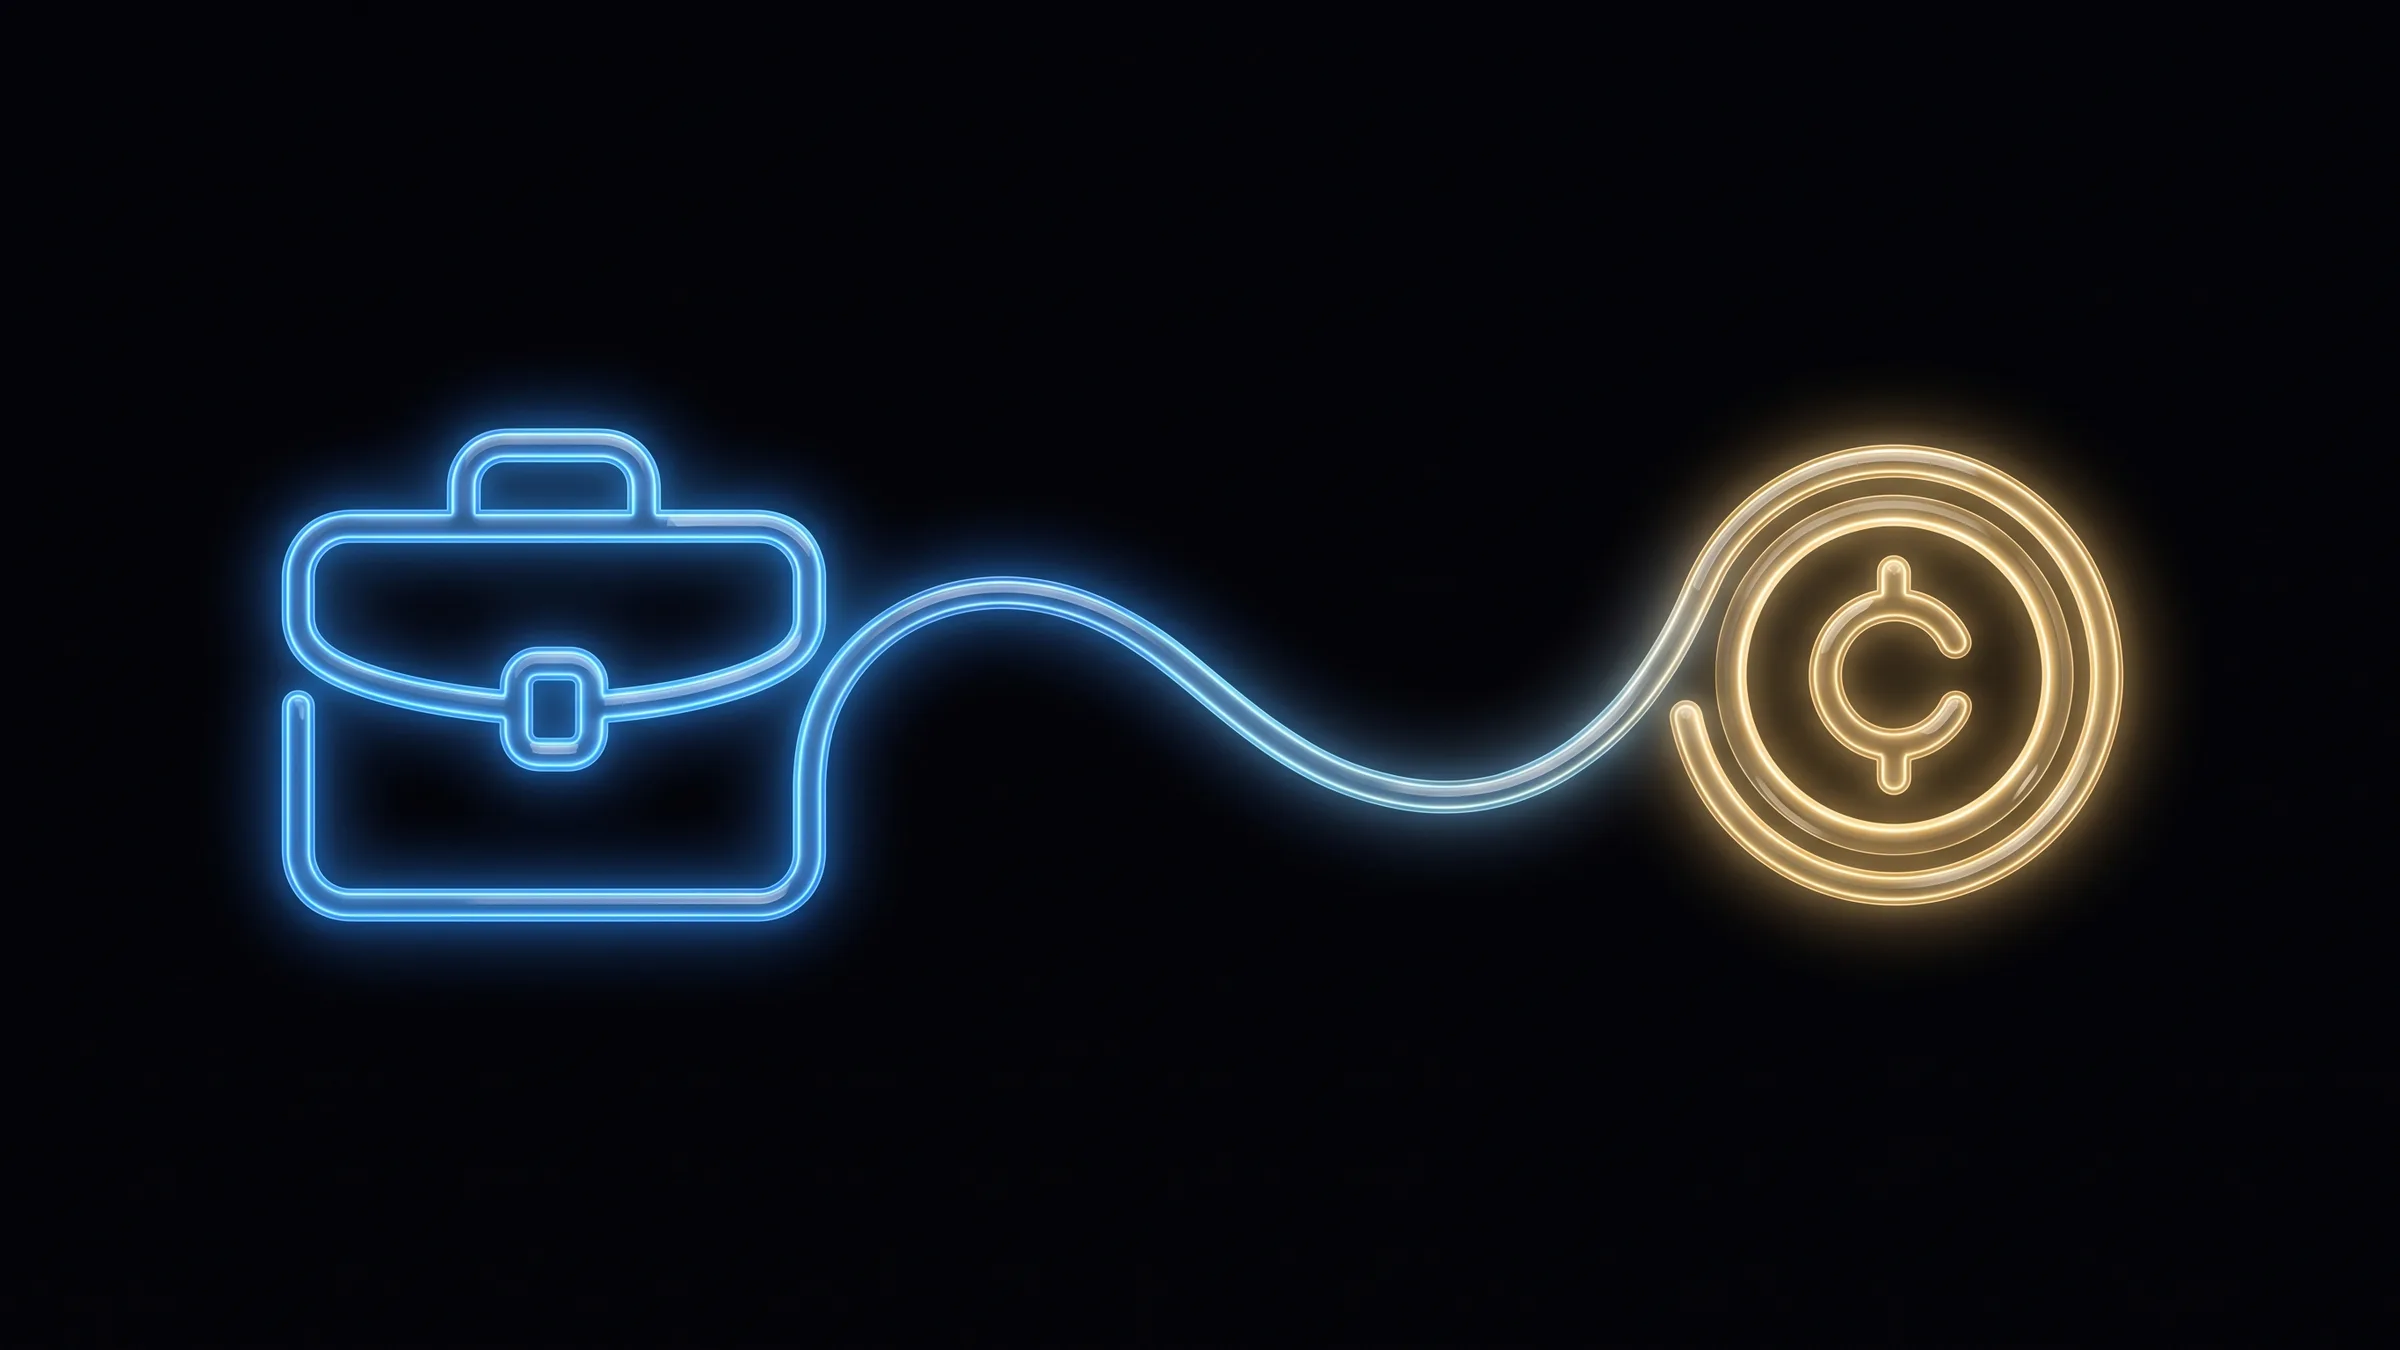
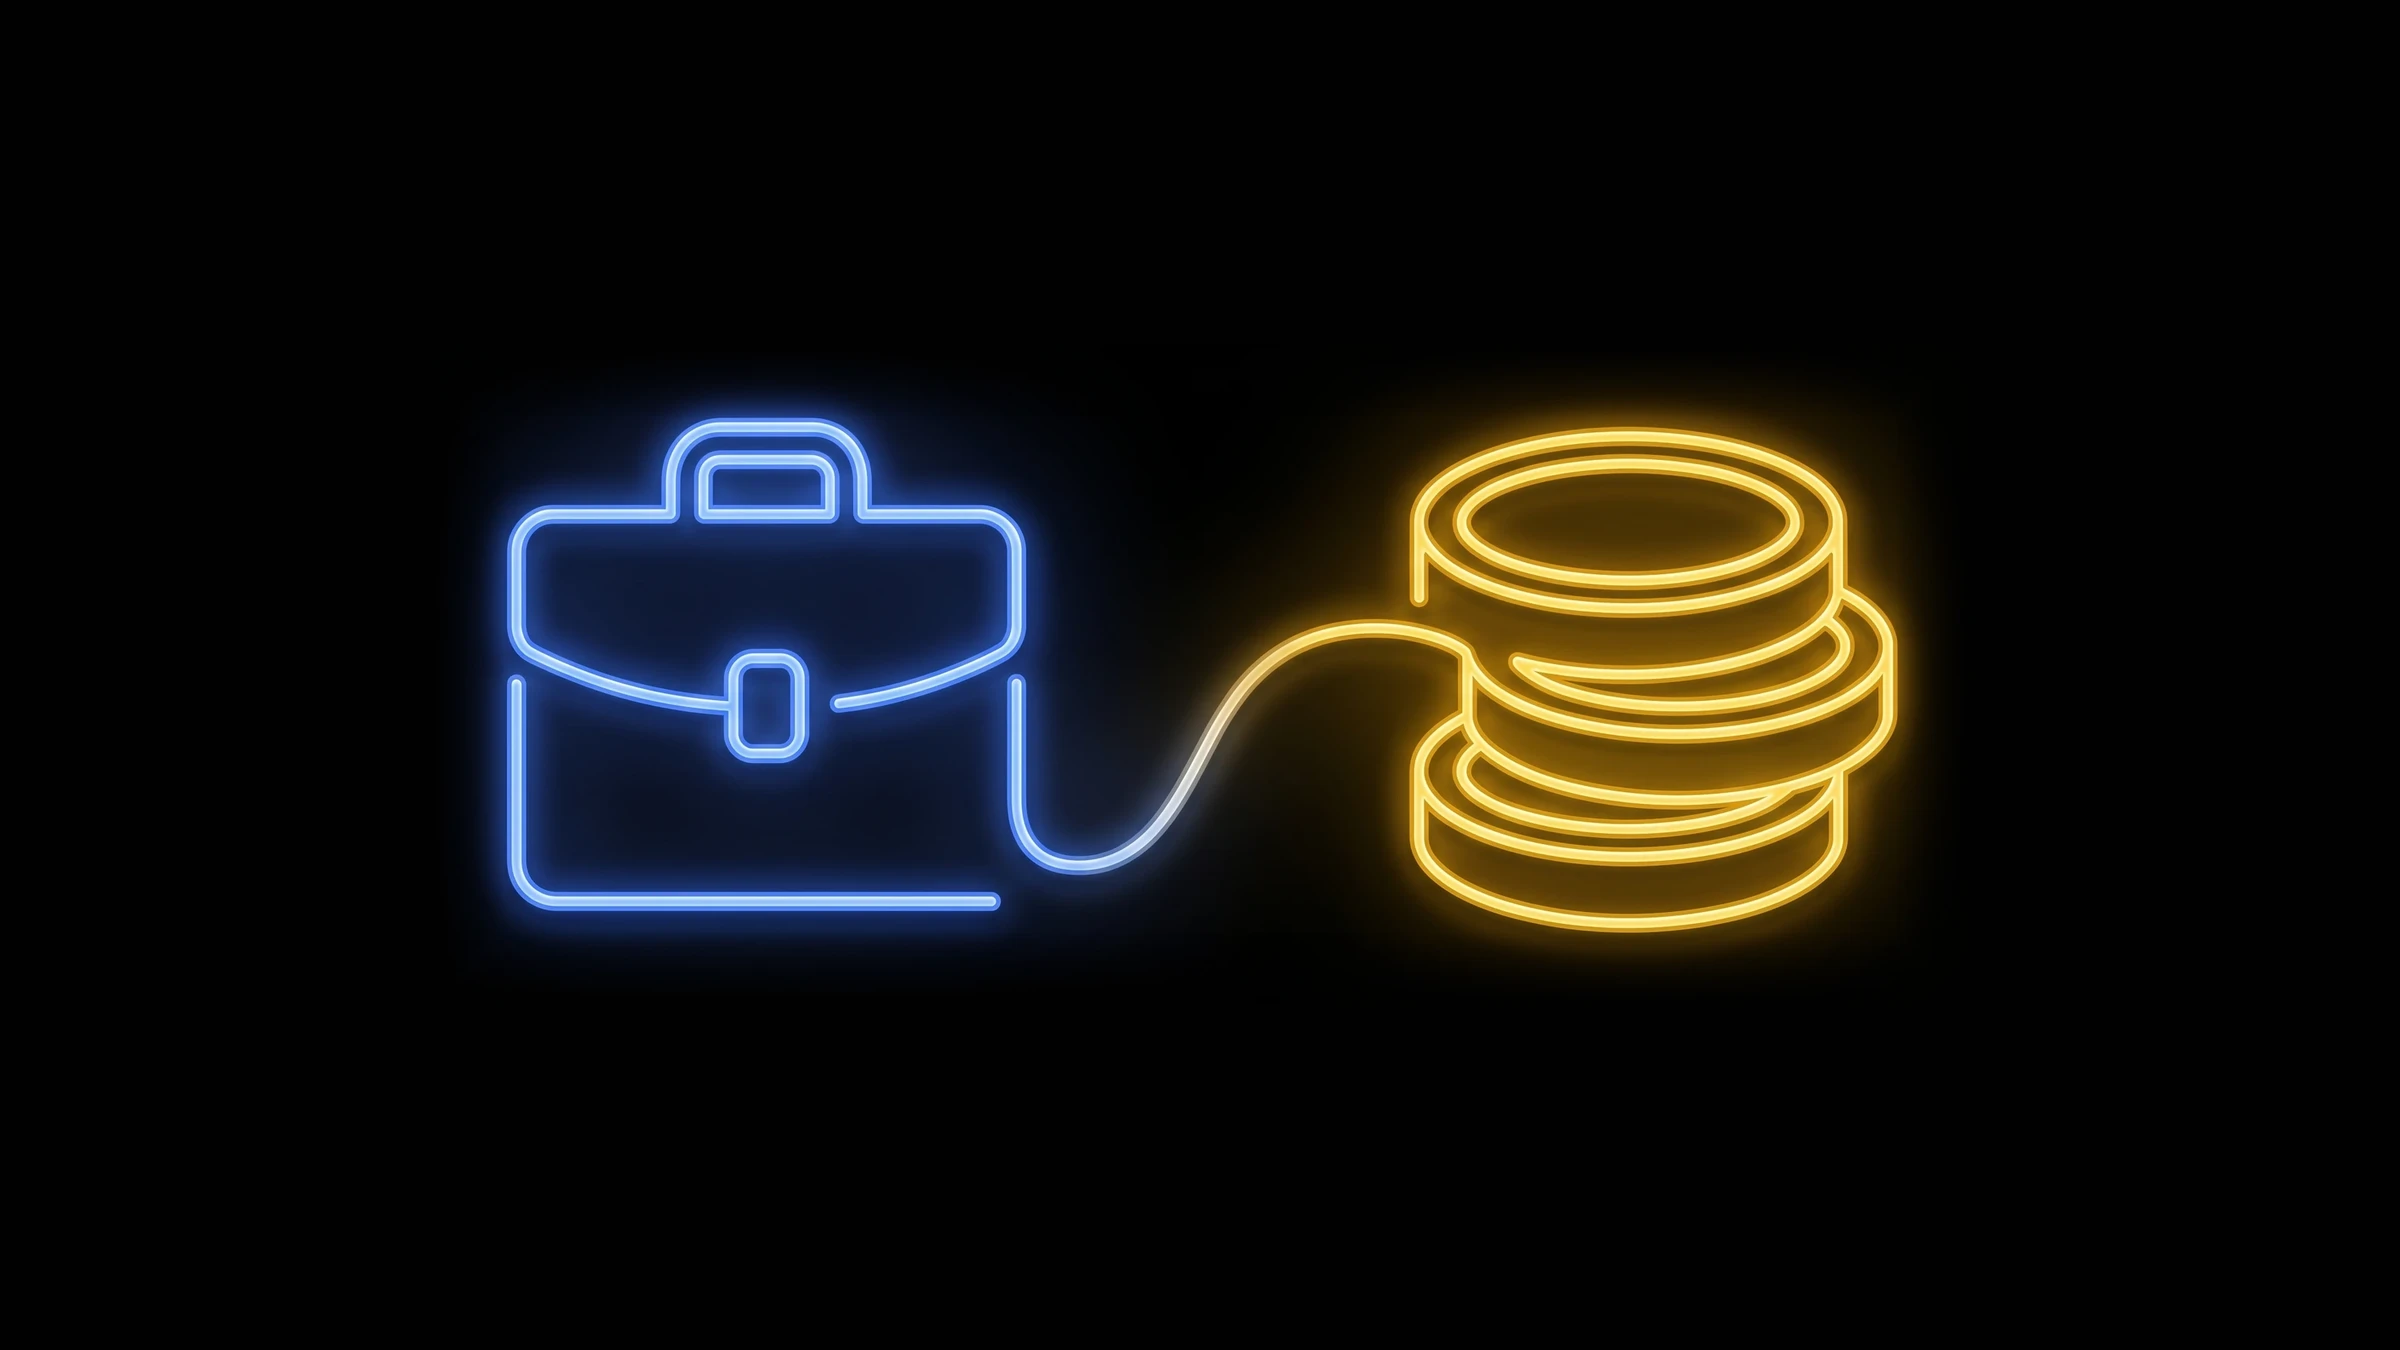
Regenerate AI Overviews and salary heroes on-brand; add normalise-hero CLI as mandatory hero step
Claude-Session: https://claude.ai/code/session_01BZYhQ3svCnfwLo1fazZx6B

Changed region(s): [[0.0938, 0.28, 0.9062, 0.7467]]

diff --git a/scripts/normalise-hero.js b/scripts/normalise-hero.js
@@ -1,0 +1,115 @@
+// Mandatory step for every new blog/service hero: normalise its subject size before use.
+const fs = require('fs');
+const path = require('path');
+const { randomUUID } = require('crypto');
+const sharp = require('sharp');
+
+function subjectBounds(data, width, height, channels) {
+  let left = width;
+  let top = height;
+  let right = -1;
+  let bottom = -1;
+  for (let y = 0; y < height; y++) {
+    for (let x = 0; x < width; x++) {
+      const i = (y * width + x) * channels;
+      if (Math.max(data[i], data[i + 1], data[i + 2]) > 40) {
+        if (x < left) left = x;
+        if (x > right) right = x;
+        if (y < top) top = y;
+        if (y > bottom) bottom = y;
+      }
+    }
+  }
+  if (right < left || bottom < top) return null;
+  return { left, top, width: right - left + 1, height: bottom - top + 1 };
+}
+
+function pct(value, total) {
+  return `${(value / total * 100).toFixed(1)}%`;
+}
+
+function median(values) {
+  values.sort((a, b) => a - b);
+  const middle = Math.floor(values.length / 2);
+  return values.length % 2 ? values[middle] : Math.round((values[middle - 1] + values[middle]) / 2);
+}
+
+function borderMedian(data, width, height, channels) {
+  const strip = Math.max(1, Math.ceil(Math.min(width, height) * 0.02));
+  const samples = [[], [], []];
+  for (let y = 0; y < height; y++) for (let x = 0; x < width; x++) {
+    if (x >= strip && x < width - strip && y >= strip && y < height - strip) continue;
+    const i = (y * width + x) * channels;
+    for (let c = 0; c < 3; c++) samples[c].push(data[i + c]);
+  }
+  return samples.map(median);
+}
+
+async function main() {
+  const args = process.argv.slice(2);
+  const check = args.includes('--check');
+  const files = args.filter((arg) => arg !== '--check');
+  if (args.filter((arg) => arg === '--check').length > 1 ||
+      files.some((arg) => arg.startsWith('--')) ||
+      files.length < 1 || files.length > (check ? 1 : 2)) {
+    throw new Error('Usage: node scripts/normalise-hero.js <input> [<output>] | --check <input>');
+  }
+  const inputPath = path.resolve(files[0]);
+  const outputPath = path.resolve(files[1] || files[0]);
+  const format = path.extname(inputPath).slice(1).toLowerCase();
+  if (!['webp', 'png'].includes(format)) throw new Error('Input must be .webp or .png.');
+  if (!check && path.extname(outputPath).slice(1).toLowerCase() !== format) {
+    throw new Error('Output extension must match the input format.');
+  }
+  const input = await fs.promises.readFile(inputPath);
+  const metadata = await sharp(input).metadata();
+  if (metadata.format !== format) throw new Error('Input extension must match its image format.');
+  const { data, info } = await sharp(input).toColourspace('srgb').removeAlpha().raw().toBuffer({ resolveWithObject: true });
+  const bounds = subjectBounds(data, info.width, info.height, info.channels);
+  if (!bounds) throw new Error(`No lit subject found in ${inputPath}`);
+  if (check) {
+    console.log(`Subject width: ${pct(bounds.width, info.width)}; height: ${pct(bounds.height, info.height)}`);
+    if (bounds.width / info.width > 0.70 || bounds.height / info.height > 0.64) process.exitCode = 1;
+    return;
+  }
+  const background = borderMedian(data, info.width, info.height, info.channels);
+  const pad = Math.ceil(info.width * 0.02);
+  const left = Math.max(0, bounds.left - pad);
+  const top = Math.max(0, bounds.top - pad);
+  const right = Math.min(info.width, bounds.left + bounds.width + pad);
+  const bottom = Math.min(info.height, bounds.top + bounds.height + pad);
+  const cropWidth = right - left;
+  const cropHeight = bottom - top;
+  const fit = Math.min(info.width * 0.64 / cropWidth, info.height * 0.58 / cropHeight);
+  const resizedWidth = Math.max(1, Math.round(cropWidth * fit));
+  const resizedHeight = Math.max(1, Math.round(cropHeight * fit));
+  const resized = await sharp(input).toColourspace('srgb').extract({ left, top, width: cropWidth, height: cropHeight })
+    .resize(resizedWidth, resizedHeight).removeAlpha().raw().toBuffer();
+  const feather = Math.max(1, Math.ceil(info.width * 0.03));
+  const rgba = Buffer.alloc(resizedWidth * resizedHeight * 4);
+  for (let y = 0; y < resizedHeight; y++) for (let x = 0; x < resizedWidth; x++) {
+    const src = (y * resizedWidth + x) * 3;
+    const dst = (y * resizedWidth + x) * 4;
+    rgba[dst] = resized[src]; rgba[dst + 1] = resized[src + 1]; rgba[dst + 2] = resized[src + 2];
+    const distance = Math.min(x + 1, y + 1, resizedWidth - x, resizedHeight - y);
+    rgba[dst + 3] = Math.max(0, Math.min(255, Math.round(distance / feather * 255)));
+  }
+  const crop = await sharp(rgba, { raw: { width: resizedWidth, height: resizedHeight, channels: 4 } }).png().toBuffer();
+  const canvas = sharp({ create: { width: info.width, height: info.height, channels: 3, background: { r: background[0], g: background[1], b: background[2] } } });
+  const result = canvas.composite([{ input: crop, left: Math.floor((info.width - resizedWidth) / 2), top: Math.floor((info.height - resizedHeight) / 2) }]);
+  const encoded = format === 'webp' ? result.webp({ quality: 90 }) : result.png();
+  // Stage beside the destination so rename also safely supports in-place use.
+  const tempPath = path.join(path.dirname(outputPath), `.${path.basename(outputPath)}.${randomUUID()}.tmp`);
+  try {
+    await encoded.toFile(tempPath);
+    await fs.promises.rename(tempPath, outputPath);
+  } finally {
+    await fs.promises.rm(tempPath, { force: true });
+  }
+  console.log(`Normalised ${outputPath} (${info.width}x${info.height}, ${format}).`);
+}
+
+main().catch((error) => {
+  console.error(error.message);
+  process.exitCode = 1;
+});
